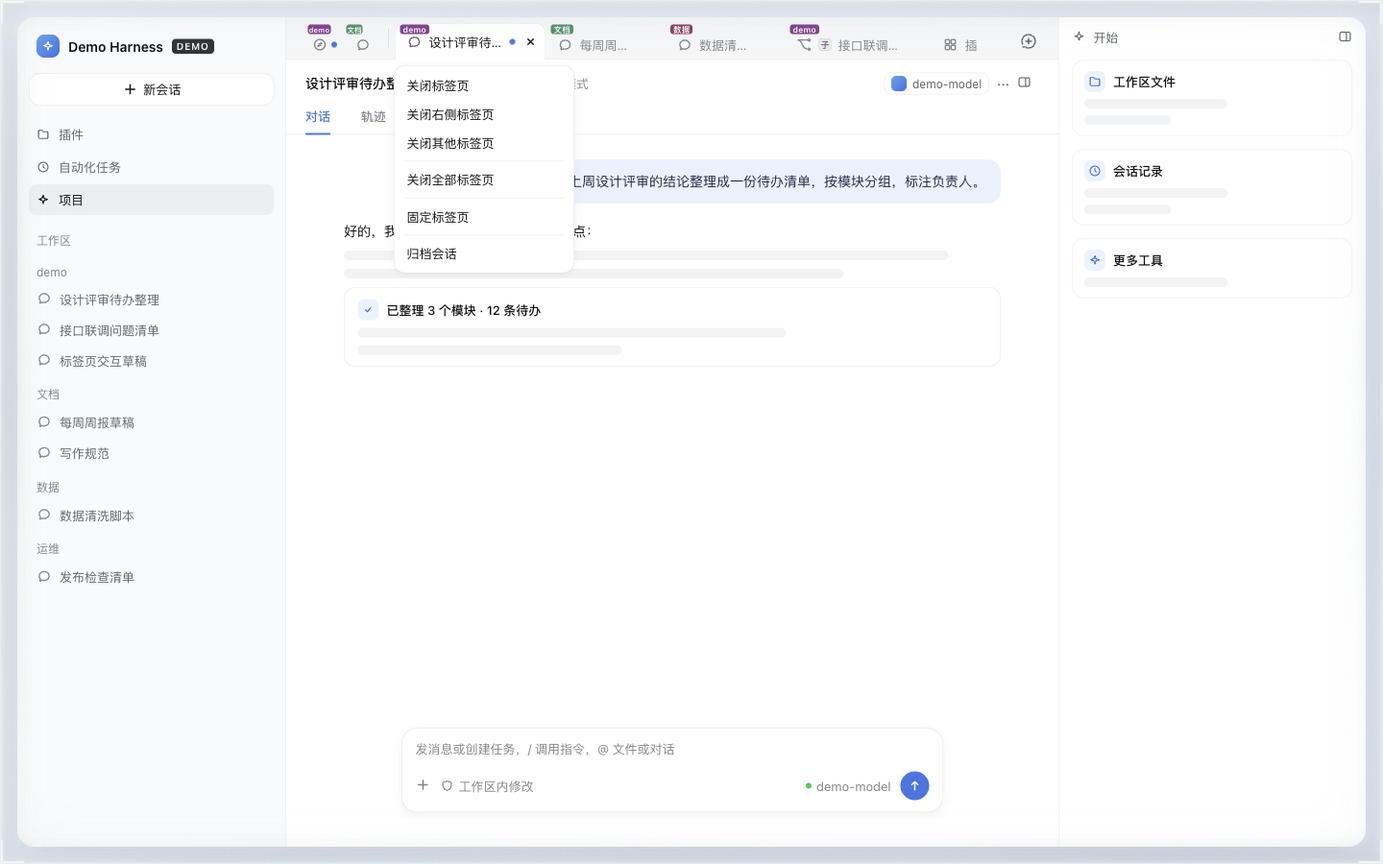
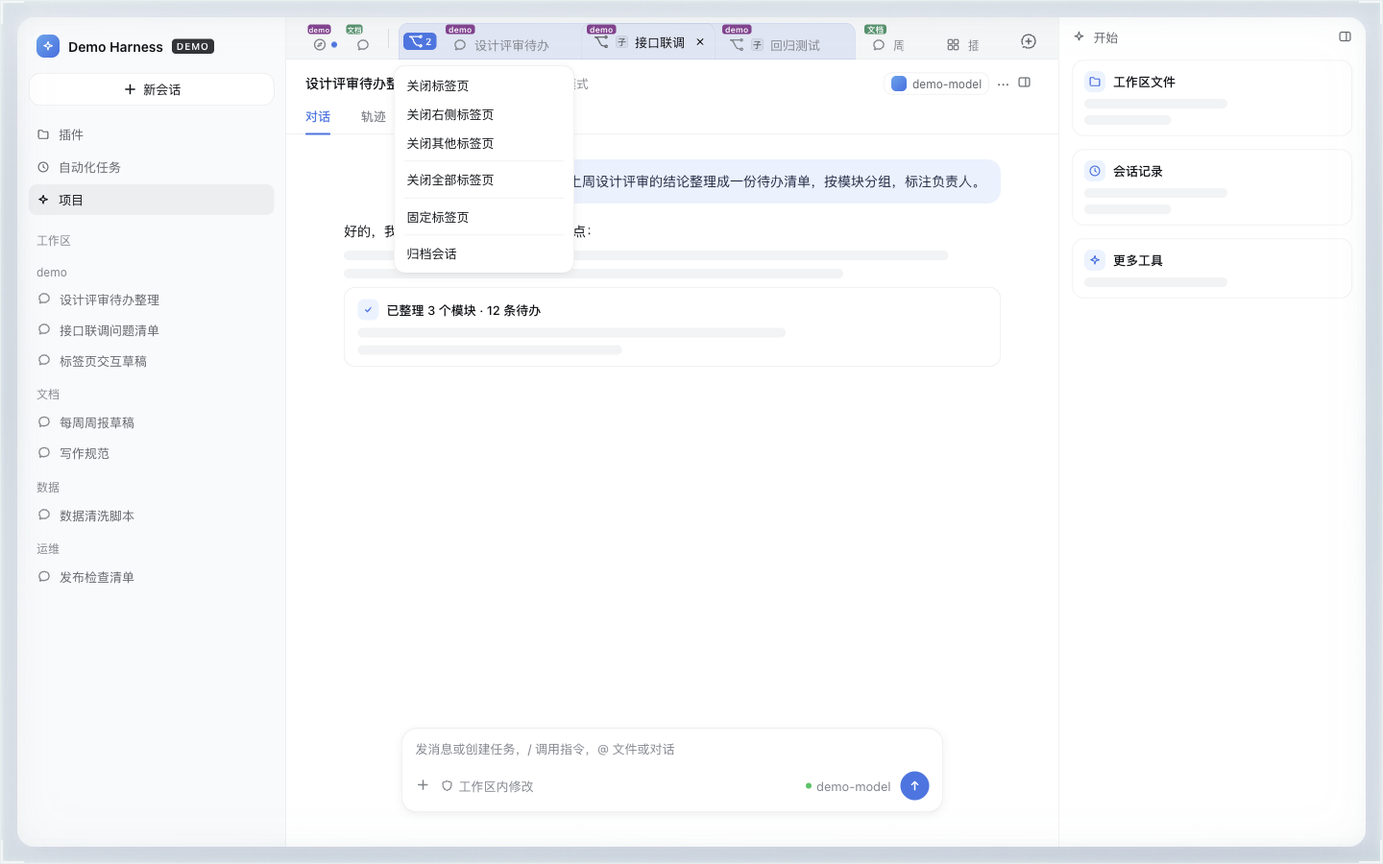
feat: 子智能体标签改为 Chrome 风格标签组（0.5.0）
- 父会话标签与子智能体标签合并到一个浅色圆角组容器，组头显示子智能体数量；父标签永远在组内第一个
- 关闭父标签（含右键「关闭标签页（含 N 个子智能体）」）连带关闭组内所有子智能体标签
- 关掉最后一个子标签后组容器自动收起；组内子标签保留分支图标 +「子」角标
- README 与 mock 截图更新

Changed region(s): [[0.2812, 0.0, 0.6562, 0.0933], [0.6875, 0.0311, 0.7188, 0.0622]]

diff --git a/docs/mock/demo.html b/docs/mock/demo.html
@@ -174,6 +174,16 @@ html[data-windows-titlebar] .dsh-tab-pagebar{top:var(--dsh-windows-titlebar-heig
 .dsh-tab-pagebar__tab[data-dragging=true]{opacity:.55;cursor:grabbing}
 .dsh-tab-pagebar__tab[data-drop=before]{box-shadow:inset 2px 0 0 var(--dsw-alias-state-business-primary)}
 .dsh-tab-pagebar__tab[data-drop=after]{box-shadow:inset -2px 0 0 var(--dsw-alias-state-business-primary)}
+/* Chrome 风格标签组：父标签 + 子智能体标签共用一个浅色圆角底，父标签永远在组内第一个 */
+.dsh-tab-pagebar__group{flex:none;display:flex;align-items:flex-end;gap:2px;align-self:flex-end;height:38px;
+  margin:0 4px;padding:0 5px;border-radius:10px 10px 0 0;
+  background:color-mix(in srgb, var(--dsw-alias-state-business-primary) 12%, transparent);
+  box-shadow:inset 0 0 0 .5px color-mix(in srgb, var(--dsw-alias-state-business-primary) 20%, transparent)}
+.dsh-tab-pagebar__group-chip{flex:none;align-self:center;display:inline-flex;align-items:center;gap:2px;
+  height:18px;padding:0 5px;margin-right:2px;border-radius:5px;color:#fff;font-size:10px;font-weight:600;line-height:18px;
+  background:var(--dsw-alias-state-business-primary)}
+.dsh-tab-pagebar__tab[data-group]{background:transparent;box-shadow:none}
+.dsh-tab-pagebar__tab[data-group]:hover{background:var(--dsw-alias-interactive-bg-hover)}
 /* 子智能体会话：标签内一个小「子」标记（悬停标签看父会话） */
 .dsh-tab-pagebar__sub{flex:none;display:inline-grid;place-items:center;height:13px;min-width:13px;padding:0 2px;
   border-radius:3px;color:var(--dsw-alias-label-secondary);background:var(--dsw-alias-interactive-bg-hover);
@@ -257,7 +267,10 @@ body[data-ds-dark-theme]{color-scheme:dark}
   <main class="mock-main">
     <div class="dsh-tab-pagebar" role="presentation">
       <div class="dsh-tab-pagebar__strip" role="tablist" aria-label="会话标签页">
-        <div class="dsh-tab-pagebar__tab" role="tab" tabindex="-1" aria-selected="false" data-pinned="true" title="新会话 · demo"><span class="dsh-tab-pagebar__badge" style="background-color:hsl(295 46% 38%)" title="工作区：demo">demo</span><span class="dsh-tab-pagebar__icon"><svg viewBox="0 0 16 16" width="16" height="16" fill="none" stroke="currentColor" stroke-width="1.4" stroke-linecap="round" stroke-linejoin="round"><circle cx="8" cy="8" r="5.4"/><path d="M9.9 6.1 8.7 8.7 6.1 9.9l1.2-2.6 2.6-1.2Z"/></svg></span><span class="dsh-tab-pagebar__label">新会话</span><span class="dsh-tab-pagebar__dot" data-signal="running" role="img" aria-label="运行中" title="运行中"></span></div><div class="dsh-tab-pagebar__tab" role="tab" tabindex="-1" aria-selected="false" data-pinned="true" title="写作规范 · 文档"><span class="dsh-tab-pagebar__badge" style="background-color:hsl(151 46% 38%)" title="工作区：文档">文档</span><span class="dsh-tab-pagebar__icon"><svg viewBox="0 0 16 16" width="16" height="16" fill="none" stroke="currentColor" stroke-width="1.4" stroke-linecap="round" stroke-linejoin="round"><path d="M13.2 8c0 2.6-2.3 4.7-5.2 4.7-.6 0-1.2-.1-1.8-.3L3.5 13.2l.7-2c-.9-.8-1.4-2-1.4-3.2C2.8 5.4 5.1 3.3 8 3.3s5.2 2.1 5.2 4.7Z"/></svg></span><span class="dsh-tab-pagebar__label">写作规范</span></div><span class="dsh-tab-pagebar__divider" aria-hidden="true"></span><div class="dsh-tab-pagebar__tab" role="tab" tabindex="0" aria-selected="true" data-pinned="false" title="设计评审待办整理 · demo"><span class="dsh-tab-pagebar__badge" style="background-color:hsl(295 46% 38%)" title="工作区：demo">demo</span><span class="dsh-tab-pagebar__icon"><svg viewBox="0 0 16 16" width="16" height="16" fill="none" stroke="currentColor" stroke-width="1.4" stroke-linecap="round" stroke-linejoin="round"><path d="M13.2 8c0 2.6-2.3 4.7-5.2 4.7-.6 0-1.2-.1-1.8-.3L3.5 13.2l.7-2c-.9-.8-1.4-2-1.4-3.2C2.8 5.4 5.1 3.3 8 3.3s5.2 2.1 5.2 4.7Z"/></svg></span><span class="dsh-tab-pagebar__label">设计评审待办整理</span><span class="dsh-tab-pagebar__dot" data-signal="running" role="img" aria-label="运行中" title="运行中"></span><button type="button" class="dsh-tab-pagebar__close" title="关闭标签页" aria-label="关闭标签页"><svg viewBox="0 0 16 16" width="12" height="12" fill="none" stroke="currentColor" stroke-width="1.5" stroke-linecap="round"><path d="M4.2 4.2l7.6 7.6M11.8 4.2l-7.6 7.6"/></svg></button></div><div class="dsh-tab-pagebar__tab" role="tab" tabindex="-1" aria-selected="false" data-pinned="false" title="每周周报草稿 · 文档"><span class="dsh-tab-pagebar__badge" style="background-color:hsl(151 46% 38%)" title="工作区：文档">文档</span><span class="dsh-tab-pagebar__icon"><svg viewBox="0 0 16 16" width="16" height="16" fill="none" stroke="currentColor" stroke-width="1.4" stroke-linecap="round" stroke-linejoin="round"><path d="M13.2 8c0 2.6-2.3 4.7-5.2 4.7-.6 0-1.2-.1-1.8-.3L3.5 13.2l.7-2c-.9-.8-1.4-2-1.4-3.2C2.8 5.4 5.1 3.3 8 3.3s5.2 2.1 5.2 4.7Z"/></svg></span><span class="dsh-tab-pagebar__label">每周周报草稿</span><button type="button" class="dsh-tab-pagebar__close" title="关闭标签页" aria-label="关闭标签页"><svg viewBox="0 0 16 16" width="12" height="12" fill="none" stroke="currentColor" stroke-width="1.5" stroke-linecap="round"><path d="M4.2 4.2l7.6 7.6M11.8 4.2l-7.6 7.6"/></svg></button></div><div class="dsh-tab-pagebar__tab" role="tab" tabindex="-1" aria-selected="false" data-pinned="false" title="数据清洗脚本 · 数据"><span class="dsh-tab-pagebar__badge" style="background-color:hsl(338 46% 38%)" title="工作区：数据">数据</span><span class="dsh-tab-pagebar__icon"><svg viewBox="0 0 16 16" width="16" height="16" fill="none" stroke="currentColor" stroke-width="1.4" stroke-linecap="round" stroke-linejoin="round"><path d="M13.2 8c0 2.6-2.3 4.7-5.2 4.7-.6 0-1.2-.1-1.8-.3L3.5 13.2l.7-2c-.9-.8-1.4-2-1.4-3.2C2.8 5.4 5.1 3.3 8 3.3s5.2 2.1 5.2 4.7Z"/></svg></span><span class="dsh-tab-pagebar__label">数据清洗脚本</span><button type="button" class="dsh-tab-pagebar__close" title="关闭标签页" aria-label="关闭标签页"><svg viewBox="0 0 16 16" width="12" height="12" fill="none" stroke="currentColor" stroke-width="1.5" stroke-linecap="round"><path d="M4.2 4.2l7.6 7.6M11.8 4.2l-7.6 7.6"/></svg></button></div><div class="dsh-tab-pagebar__tab" role="tab" tabindex="-1" aria-selected="false" data-pinned="false" data-subagent-tab="true" title="接口联调子任务 · 子智能体（demo）"><span class="dsh-tab-pagebar__badge" style="background-color:hsl(295 46% 38%)" title="工作区：demo">demo</span><span class="dsh-tab-pagebar__icon"><svg viewBox="0 0 16 16" width="16" height="16" fill="none"><path fill="currentColor" fill-rule="evenodd" clip-rule="evenodd" d="M13.0762 1.37207C14.0846 1.37228 14.9021 2.19077 14.9023 3.19922C14.9022 4.20772 14.0847 5.02518 13.0762 5.02539C12.2967 5.02539 11.6325 4.53691 11.3701 3.84961H4.35547C4.79397 4.26458 5.15861 4.7644 5.41699 5.33496L7.10645 9.06738C7.88526 10.7875 9.55104 11.9228 11.4189 12.0371C11.7085 11.4109 12.3411 10.9756 13.0762 10.9756C14.0843 10.9759 14.9023 11.7936 14.9023 12.8018C14.9023 13.81 14.0843 14.6277 13.0762 14.6279C12.2534 14.6279 11.5574 14.0832 11.3291 13.335C8.9868 13.1879 6.89981 11.7612 5.92285 9.60352L4.23242 5.87109C3.67503 4.64033 2.44878 3.84961 1.09766 3.84961V2.54883C1.10665 2.54883 1.11601 2.54975 1.125 2.5498L11.3701 2.54883C11.6326 1.86151 12.2969 1.37207 13.0762 1.37207ZM13.0762 12.2764C12.7858 12.2764 12.5508 12.5114 12.5508 12.8018C12.5508 13.0921 12.7858 13.3281 13.0762 13.3281C13.3664 13.3279 13.6025 13.092 13.6025 12.8018C13.6025 12.5115 13.3664 12.2766 13.0762 12.2764ZM13.0762 2.67285C12.7855 2.67285 12.55 2.90861 12.5498 3.19922C12.5499 3.48987 12.7855 3.72559 13.0762 3.72559C13.3667 3.72538 13.6024 3.48975 13.6025 3.19922C13.6023 2.90874 13.3666 2.67306 13.0762 2.67285Z"/></svg></span><span class="dsh-tab-pagebar__sub" aria-hidden="true">子</span><span class="dsh-tab-pagebar__label">接口联调子任务</span><button type="button" class="dsh-tab-pagebar__close" title="关闭标签页" aria-label="关闭标签页"><svg viewBox="0 0 16 16" width="12" height="12" fill="none" stroke="currentColor" stroke-width="1.5" stroke-linecap="round"><path d="M4.2 4.2l7.6 7.6M11.8 4.2l-7.6 7.6"/></svg></button></div><div class="dsh-tab-pagebar__tab" role="tab" tabindex="-1" aria-selected="false" data-pinned="false" data-panel-tab="true" title="插件"><span class="dsh-tab-pagebar__icon"><svg viewBox="0 0 16 16" width="16" height="16" fill="none" stroke="currentColor" stroke-width="1.4"><rect x="2.8" y="2.8" width="4.4" height="4.4" rx="1.2"/><rect x="8.8" y="2.8" width="4.4" height="4.4" rx="1.2"/><rect x="2.8" y="8.8" width="4.4" height="4.4" rx="1.2"/><rect x="8.8" y="8.8" width="4.4" height="4.4" rx="1.2"/></svg></span><span class="dsh-tab-pagebar__label">插件</span><button type="button" class="dsh-tab-pagebar__close" title="关闭标签页" aria-label="关闭标签页"><svg viewBox="0 0 16 16" width="12" height="12" fill="none" stroke="currentColor" stroke-width="1.5" stroke-linecap="round"><path d="M4.2 4.2l7.6 7.6M11.8 4.2l-7.6 7.6"/></svg></button></div>
+        <div class="dsh-tab-pagebar__tab" role="tab" tabindex="-1" aria-selected="false" data-pinned="true" title="新会话 · demo"><span class="dsh-tab-pagebar__badge" style="background-color:hsl(295 46% 38%)" title="工作区：demo">demo</span><span class="dsh-tab-pagebar__icon"><svg viewBox="0 0 16 16" width="16" height="16" fill="none" stroke="currentColor" stroke-width="1.4" stroke-linecap="round" stroke-linejoin="round"><circle cx="8" cy="8" r="5.4"/><path d="M9.9 6.1 8.7 8.7 6.1 9.9l1.2-2.6 2.6-1.2Z"/></svg></span><span class="dsh-tab-pagebar__label">新会话</span><span class="dsh-tab-pagebar__dot" data-signal="running" role="img" aria-label="运行中" title="运行中"></span></div><div class="dsh-tab-pagebar__tab" role="tab" tabindex="-1" aria-selected="false" data-pinned="true" title="写作规范 · 文档"><span class="dsh-tab-pagebar__badge" style="background-color:hsl(151 46% 38%)" title="工作区：文档">文档</span><span class="dsh-tab-pagebar__icon"><svg viewBox="0 0 16 16" width="16" height="16" fill="none" stroke="currentColor" stroke-width="1.4" stroke-linecap="round" stroke-linejoin="round"><path d="M13.2 8c0 2.6-2.3 4.7-5.2 4.7-.6 0-1.2-.1-1.8-.3L3.5 13.2l.7-2c-.9-.8-1.4-2-1.4-3.2C2.8 5.4 5.1 3.3 8 3.3s5.2 2.1 5.2 4.7Z"/></svg></span><span class="dsh-tab-pagebar__label">写作规范</span></div><span class="dsh-tab-pagebar__divider" aria-hidden="true"></span><div class="dsh-tab-pagebar__group" role="group" aria-label="子智能体标签组：2 个子智能体会话">
+        <span class="dsh-tab-pagebar__group-chip" title="2 个子智能体（同一标签组）" aria-hidden="true"><svg viewBox="0 0 16 16" width="16" height="16" fill="none"><path fill="currentColor" fill-rule="evenodd" clip-rule="evenodd" d="M13.0762 1.37207C14.0846 1.37228 14.9021 2.19077 14.9023 3.19922C14.9022 4.20772 14.0847 5.02518 13.0762 5.02539C12.2967 5.02539 11.6325 4.53691 11.3701 3.84961H4.35547C4.79397 4.26458 5.15861 4.7644 5.41699 5.33496L7.10645 9.06738C7.88526 10.7875 9.55104 11.9228 11.4189 12.0371C11.7085 11.4109 12.3411 10.9756 13.0762 10.9756C14.0843 10.9759 14.9023 11.7936 14.9023 12.8018C14.9023 13.81 14.0843 14.6277 13.0762 14.6279C12.2534 14.6279 11.5574 14.0832 11.3291 13.335C8.9868 13.1879 6.89981 11.7612 5.92285 9.60352L4.23242 5.87109C3.67503 4.64033 2.44878 3.84961 1.09766 3.84961V2.54883C1.10665 2.54883 1.11601 2.54975 1.125 2.5498L11.3701 2.54883C11.6326 1.86151 12.2969 1.37207 13.0762 1.37207ZM13.0762 12.2764C12.7858 12.2764 12.5508 12.5114 12.5508 12.8018C12.5508 13.0921 12.7858 13.3281 13.0762 13.3281C13.3664 13.3279 13.6025 13.092 13.6025 12.8018C13.6025 12.5115 13.3664 12.2766 13.0762 12.2764ZM13.0762 2.67285C12.7855 2.67285 12.55 2.90861 12.5498 3.19922C12.5499 3.48987 12.7855 3.72559 13.0762 3.72559C13.3667 3.72538 13.6024 3.48975 13.6025 3.19922C13.6023 2.90874 13.3666 2.67306 13.0762 2.67285Z"/></svg><span>2</span></span>
+        <div class="dsh-tab-pagebar__tab" role="tab" tabindex="-1" aria-selected="false" data-pinned="false" data-group="parent" title="设计评审待办 · demo"><span class="dsh-tab-pagebar__badge" style="background-color:hsl(295 46% 38%)" title="工作区：demo">demo</span><span class="dsh-tab-pagebar__icon"><svg viewBox="0 0 16 16" width="16" height="16" fill="none" stroke="currentColor" stroke-width="1.4" stroke-linecap="round" stroke-linejoin="round"><path d="M13.2 8c0 2.6-2.3 4.7-5.2 4.7-.6 0-1.2-.1-1.8-.3L3.5 13.2l.7-2c-.9-.8-1.4-2-1.4-3.2C2.8 5.4 5.1 3.3 8 3.3s5.2 2.1 5.2 4.7Z"/></svg></span><span class="dsh-tab-pagebar__label">设计评审待办</span><button type="button" class="dsh-tab-pagebar__close" title="关闭标签页" aria-label="关闭标签页"><svg viewBox="0 0 16 16" width="12" height="12" fill="none" stroke="currentColor" stroke-width="1.5" stroke-linecap="round"><path d="M4.2 4.2l7.6 7.6M11.8 4.2l-7.6 7.6"/></svg></button></div><div class="dsh-tab-pagebar__tab" role="tab" tabindex="0" aria-selected="true" data-pinned="false" data-subagent-tab="true" data-group="child" title="接口联调 · 子智能体（demo）"><span class="dsh-tab-pagebar__badge" style="background-color:hsl(295 46% 38%)" title="工作区：demo">demo</span><span class="dsh-tab-pagebar__icon"><svg viewBox="0 0 16 16" width="16" height="16" fill="none"><path fill="currentColor" fill-rule="evenodd" clip-rule="evenodd" d="M13.0762 1.37207C14.0846 1.37228 14.9021 2.19077 14.9023 3.19922C14.9022 4.20772 14.0847 5.02518 13.0762 5.02539C12.2967 5.02539 11.6325 4.53691 11.3701 3.84961H4.35547C4.79397 4.26458 5.15861 4.7644 5.41699 5.33496L7.10645 9.06738C7.88526 10.7875 9.55104 11.9228 11.4189 12.0371C11.7085 11.4109 12.3411 10.9756 13.0762 10.9756C14.0843 10.9759 14.9023 11.7936 14.9023 12.8018C14.9023 13.81 14.0843 14.6277 13.0762 14.6279C12.2534 14.6279 11.5574 14.0832 11.3291 13.335C8.9868 13.1879 6.89981 11.7612 5.92285 9.60352L4.23242 5.87109C3.67503 4.64033 2.44878 3.84961 1.09766 3.84961V2.54883C1.10665 2.54883 1.11601 2.54975 1.125 2.5498L11.3701 2.54883C11.6326 1.86151 12.2969 1.37207 13.0762 1.37207ZM13.0762 12.2764C12.7858 12.2764 12.5508 12.5114 12.5508 12.8018C12.5508 13.0921 12.7858 13.3281 13.0762 13.3281C13.3664 13.3279 13.6025 13.092 13.6025 12.8018C13.6025 12.5115 13.3664 12.2766 13.0762 12.2764ZM13.0762 2.67285C12.7855 2.67285 12.55 2.90861 12.5498 3.19922C12.5499 3.48987 12.7855 3.72559 13.0762 3.72559C13.3667 3.72538 13.6024 3.48975 13.6025 3.19922C13.6023 2.90874 13.3666 2.67306 13.0762 2.67285Z"/></svg></span><span class="dsh-tab-pagebar__sub" aria-hidden="true">子</span><span class="dsh-tab-pagebar__label">接口联调</span><button type="button" class="dsh-tab-pagebar__close" title="关闭标签页" aria-label="关闭标签页"><svg viewBox="0 0 16 16" width="12" height="12" fill="none" stroke="currentColor" stroke-width="1.5" stroke-linecap="round"><path d="M4.2 4.2l7.6 7.6M11.8 4.2l-7.6 7.6"/></svg></button></div><div class="dsh-tab-pagebar__tab" role="tab" tabindex="-1" aria-selected="false" data-pinned="false" data-subagent-tab="true" data-group="child" title="回归测试 · 子智能体（demo）"><span class="dsh-tab-pagebar__badge" style="background-color:hsl(295 46% 38%)" title="工作区：demo">demo</span><span class="dsh-tab-pagebar__icon"><svg viewBox="0 0 16 16" width="16" height="16" fill="none"><path fill="currentColor" fill-rule="evenodd" clip-rule="evenodd" d="M13.0762 1.37207C14.0846 1.37228 14.9021 2.19077 14.9023 3.19922C14.9022 4.20772 14.0847 5.02518 13.0762 5.02539C12.2967 5.02539 11.6325 4.53691 11.3701 3.84961H4.35547C4.79397 4.26458 5.15861 4.7644 5.41699 5.33496L7.10645 9.06738C7.88526 10.7875 9.55104 11.9228 11.4189 12.0371C11.7085 11.4109 12.3411 10.9756 13.0762 10.9756C14.0843 10.9759 14.9023 11.7936 14.9023 12.8018C14.9023 13.81 14.0843 14.6277 13.0762 14.6279C12.2534 14.6279 11.5574 14.0832 11.3291 13.335C8.9868 13.1879 6.89981 11.7612 5.92285 9.60352L4.23242 5.87109C3.67503 4.64033 2.44878 3.84961 1.09766 3.84961V2.54883C1.10665 2.54883 1.11601 2.54975 1.125 2.5498L11.3701 2.54883C11.6326 1.86151 12.2969 1.37207 13.0762 1.37207ZM13.0762 12.2764C12.7858 12.2764 12.5508 12.5114 12.5508 12.8018C12.5508 13.0921 12.7858 13.3281 13.0762 13.3281C13.3664 13.3279 13.6025 13.092 13.6025 12.8018C13.6025 12.5115 13.3664 12.2766 13.0762 12.2764ZM13.0762 2.67285C12.7855 2.67285 12.55 2.90861 12.5498 3.19922C12.5499 3.48987 12.7855 3.72559 13.0762 3.72559C13.3667 3.72538 13.6024 3.48975 13.6025 3.19922C13.6023 2.90874 13.3666 2.67306 13.0762 2.67285Z"/></svg></span><span class="dsh-tab-pagebar__sub" aria-hidden="true">子</span><span class="dsh-tab-pagebar__label">回归测试</span><button type="button" class="dsh-tab-pagebar__close" title="关闭标签页" aria-label="关闭标签页"><svg viewBox="0 0 16 16" width="12" height="12" fill="none" stroke="currentColor" stroke-width="1.5" stroke-linecap="round"><path d="M4.2 4.2l7.6 7.6M11.8 4.2l-7.6 7.6"/></svg></button></div>
+      </div><div class="dsh-tab-pagebar__tab" role="tab" tabindex="-1" aria-selected="false" data-pinned="false" title="周报 · 文档"><span class="dsh-tab-pagebar__badge" style="background-color:hsl(151 46% 38%)" title="工作区：文档">文档</span><span class="dsh-tab-pagebar__icon"><svg viewBox="0 0 16 16" width="16" height="16" fill="none" stroke="currentColor" stroke-width="1.4" stroke-linecap="round" stroke-linejoin="round"><path d="M13.2 8c0 2.6-2.3 4.7-5.2 4.7-.6 0-1.2-.1-1.8-.3L3.5 13.2l.7-2c-.9-.8-1.4-2-1.4-3.2C2.8 5.4 5.1 3.3 8 3.3s5.2 2.1 5.2 4.7Z"/></svg></span><span class="dsh-tab-pagebar__label">周报</span><button type="button" class="dsh-tab-pagebar__close" title="关闭标签页" aria-label="关闭标签页"><svg viewBox="0 0 16 16" width="12" height="12" fill="none" stroke="currentColor" stroke-width="1.5" stroke-linecap="round"><path d="M4.2 4.2l7.6 7.6M11.8 4.2l-7.6 7.6"/></svg></button></div><div class="dsh-tab-pagebar__tab" role="tab" tabindex="-1" aria-selected="false" data-pinned="false" data-panel-tab="true" title="插件"><span class="dsh-tab-pagebar__icon"><svg viewBox="0 0 16 16" width="16" height="16" fill="none" stroke="currentColor" stroke-width="1.4"><rect x="2.8" y="2.8" width="4.4" height="4.4" rx="1.2"/><rect x="8.8" y="2.8" width="4.4" height="4.4" rx="1.2"/><rect x="2.8" y="8.8" width="4.4" height="4.4" rx="1.2"/><rect x="8.8" y="8.8" width="4.4" height="4.4" rx="1.2"/></svg></span><span class="dsh-tab-pagebar__label">插件</span><button type="button" class="dsh-tab-pagebar__close" title="关闭标签页" aria-label="关闭标签页"><svg viewBox="0 0 16 16" width="12" height="12" fill="none" stroke="currentColor" stroke-width="1.5" stroke-linecap="round"><path d="M4.2 4.2l7.6 7.6M11.8 4.2l-7.6 7.6"/></svg></button></div>
       </div>
       <button type="button" class="dsh-tab-pagebar__new" title="新建会话" aria-label="新建会话"><svg viewBox="0 0 16 16" width="16" height="16" fill="none"><path fill="currentColor" d="M8.00003 0.3237C3.76075 0.3237 0.32373 3.76072 0.32373 8C0.32373 9.17603 0.589121 10.2922 1.0632 11.2901L1.35291 11.8989L2.5705 11.3205L2.28079 10.7117C1.89079 9.89074 1.67301 8.97167 1.67301 8C1.67301 4.50546 4.50549 1.67298 8.00003 1.67298C11.4946 1.67298 14.3271 4.50546 14.3271 8C14.3271 11.4945 11.4946 14.327 8.00003 14.327C7.28473 14.327 6.76077 14.277 6.29621 14.1487C5.83857 14.0224 5.40441 13.8109 4.88514 13.4488C4.12569 12.919 3.03778 12.7316 2.141 13.2978L2.12682 13.307L2.11264 13.3171L1.34886 13.854L1.79659 15.188L2.86122 14.4384C3.19068 14.2305 3.68325 14.2542 4.11326 14.5539C4.72789 14.9826 5.30042 15.2724 5.93762 15.4484C6.56803 15.6224 7.22776 15.6763 8.00003 15.6763C12.2393 15.6763 15.6763 12.2393 15.6763 8C15.6763 3.76072 12.2393 0.3237 8.00003 0.3237ZM7.32033 4.82535V7.32536H4.82538V8.67464H7.32033V11.1747H8.6696V8.67464H11.1747V7.32536H8.6696V4.82535H7.32033Z"/></svg></button>
     </div>

diff --git a/client.js b/client.js
@@ -59,7 +59,10 @@ window.__ModuleLoader__.load({
       'tab.workspace': '工作区：{name}',
       'tab.subagent': '子智能体',
       'tab.subagentShort': '子',
+      'tab.subagentGroupTip': '{n} 个子智能体（同一标签组）',
+      'tab.subagentGroupAria': '子智能体标签组：{n} 个子智能体会话',
       'menu.close': '关闭标签页',
+      'menu.closeGroup': '关闭标签页（含 {n} 个子智能体）',
       'menu.closeRight': '关闭右侧标签页',
       'menu.closeOthers': '关闭其他标签页',
       'menu.closeAll': '关闭全部标签页',
@@ -86,7 +89,10 @@ window.__ModuleLoader__.load({
       'tab.workspace': 'Workspace: {name}',
       'tab.subagent': 'Subagent',
       'tab.subagentShort': 'Sub',
+      'tab.subagentGroupTip': '{n} subagents in this tab group',
+      'tab.subagentGroupAria': 'Subagent tab group: {n} subagent conversations',
       'menu.close': 'Close tab',
+      'menu.closeGroup': 'Close tab (and {n} subagents)',
       'menu.closeRight': 'Close tabs to the right',
       'menu.closeOthers': 'Close other tabs',
       'menu.closeAll': 'Close all tabs',
@@ -191,6 +197,16 @@ html[data-windows-titlebar] .dsh-tab-pagebar{top:var(--dsh-windows-titlebar-heig
 .dsh-tab-pagebar__tab[data-dragging=true]{opacity:.55;cursor:grabbing}
 .dsh-tab-pagebar__tab[data-drop=before]{box-shadow:inset 2px 0 0 var(--dsw-alias-state-business-primary)}
 .dsh-tab-pagebar__tab[data-drop=after]{box-shadow:inset -2px 0 0 var(--dsw-alias-state-business-primary)}
+/* Chrome 风格标签组：父标签 + 子智能体标签共用一个浅色圆角底，父标签永远在组内第一个 */
+.dsh-tab-pagebar__group{flex:none;display:flex;align-items:flex-end;gap:2px;align-self:flex-end;height:38px;
+  margin:0 4px;padding:0 5px;border-radius:10px 10px 0 0;
+  background:color-mix(in srgb, var(--dsw-alias-state-business-primary) 12%, transparent);
+  box-shadow:inset 0 0 0 .5px color-mix(in srgb, var(--dsw-alias-state-business-primary) 20%, transparent)}
+.dsh-tab-pagebar__group-chip{flex:none;align-self:center;display:inline-flex;align-items:center;gap:2px;
+  height:18px;padding:0 5px;margin-right:2px;border-radius:5px;color:#fff;font-size:10px;font-weight:600;line-height:18px;
+  background:var(--dsw-alias-state-business-primary)}
+.dsh-tab-pagebar__tab[data-group]{background:transparent;box-shadow:none}
+.dsh-tab-pagebar__tab[data-group]:hover{background:var(--dsw-alias-interactive-bg-hover)}
 /* 子智能体会话：标签内一个小「子」标记（悬停标签看父会话） */
 .dsh-tab-pagebar__sub{flex:none;display:inline-grid;place-items:center;height:13px;min-width:13px;padding:0 2px;
   border-radius:3px;color:var(--dsw-alias-label-secondary);background:var(--dsw-alias-interactive-bg-hover);
@@ -307,13 +323,14 @@ html[data-windows-titlebar] .dsh-tab-pagebar{top:var(--dsh-windows-titlebar-heig
       )
     }
     /** 官方 IconBranchOutline16：子智能体会话用分支图标。 */
-    function IconSubagent() {
+    function IconSubagent(props) {
+      const size = typeof props === 'number' ? props : (props?.size ?? 16)
       return h(
         'svg',
         {
           viewBox: '0 0 16 16',
-          width: 16,
-          height: 16,
+          width: size,
+          height: size,
           fill: 'none',
           'aria-hidden': true,
           focusable: false,
@@ -513,6 +530,37 @@ html[data-windows-titlebar] .dsh-tab-pagebar{top:var(--dsh-windows-titlebar-heig
     }
 
     /**
+     * 参考 Chrome 标签组：父会话标签和它的子智能体标签合成一组，父标签永远在组内第一个。
+     * 返回渲染项：{ kind: 'tab', tab } 或 { kind: 'group', parent, children }。
+     */
+    function groupSessionTabs(list, rows) {
+      const childrenByParent = new Map()
+      for (const tab of list) {
+        if (tab.pinned) continue
+        const row = rows[tab.id]
+        if (row === undefined || row.origin !== 'subagent' || row.parentId === undefined) continue
+        const parentRow = rows[row.parentId]
+        if (parentRow === undefined || parentRow.origin === 'subagent') continue
+        if (!list.some((candidate) => candidate.id === row.parentId && !candidate.pinned)) continue
+        const children = childrenByParent.get(row.parentId) ?? []
+        children.push(tab)
+        childrenByParent.set(row.parentId, children)
+      }
+      const groupedChildIds = new Set([...childrenByParent.values()].flat().map((tab) => tab.id))
+      const items = []
+      for (const tab of list) {
+        const children = childrenByParent.get(tab.id)
+        if (children !== undefined) {
+          items.push({ kind: 'group', parent: tab, children })
+          continue
+        }
+        if (groupedChildIds.has(tab.id)) continue
+        items.push({ kind: 'tab', tab })
+      }
+      return items
+    }
+
+    /**
      * 显示顺序：固定标签在最左（按固定顺序），其余按打开顺序。
      * 切换标签不改变顺序；激活标签只是变宽、和下面的会话页连成一张纸。
      */
@@ -527,7 +575,7 @@ html[data-windows-titlebar] .dsh-tab-pagebar{top:var(--dsh-windows-titlebar-heig
 
     // ── 单个标签页 ──────────────────────────────────────────────────────────
     function TabItem(props) {
-      const { id, title, active, signal, blank, pinned, panel, subagent, parentTitle, badge, drop, dragging, t, onSelect, onClose, onMenu, onArrow, onDragStart } = props
+      const { id, title, active, signal, blank, pinned, panel, subagent, parentTitle, group, badge, drop, dragging, t, onSelect, onClose, onMenu, onArrow, onDragStart } = props
       const statusLabel =
         signal === 'running' ? t('tab.running') : signal === 'pending' ? t('tab.pending') : signal === 'unread' ? t('tab.unread') : undefined
       const titleParts = [title]
@@ -545,6 +593,7 @@ html[data-windows-titlebar] .dsh-tab-pagebar{top:var(--dsh-windows-titlebar-heig
           'data-pinned': pinned ? 'true' : 'false',
           'data-panel-tab': panel ? 'true' : undefined,
           'data-subagent-tab': subagent ? 'true' : undefined,
+          'data-group': group === undefined ? undefined : group,
           'data-dragging': dragging ? 'true' : 'false',
           'data-drop': drop === null || drop === undefined ? undefined : drop,
           title: tooltip,
@@ -789,10 +838,12 @@ html[data-windows-titlebar] .dsh-tab-pagebar{top:var(--dsh-windows-titlebar-heig
           if (stale.length > 0) actions.store.removeMany(stale)
         }, [catalog, archived])
 
-        const tabs = displayTabs(snapshot).filter((tab) => {
+        const flatTabs = displayTabs(snapshot).filter((tab) => {
           if (isPanelTab(tab.id)) return panels.ready ? panelById.has(panelIdOf(tab.id)) : true
           return rows[tab.id] !== undefined && !archived.has(tab.id)
         })
+        const tabItems = groupSessionTabs(flatTabs, rows)
+        const tabs = tabItems.flatMap((item) => (item.kind === 'group' ? [item.parent, ...item.children] : [item.tab]))
         const pinnedCount = tabs.filter((tab) => tab.pinned).length
 
         // 打开全局面板时给它一个独立标签（已有则复用）；面板注销后摘掉对应标签。
@@ -1094,8 +1145,18 @@ html[data-windows-titlebar] .dsh-tab-pagebar{top:var(--dsh-windows-titlebar-heig
           } else if (menuTab !== undefined) {
             const rightCount = tabs.length - menuTabIndex - 1
             const otherCount = tabs.filter((tab) => tab.id !== menuTab.id && !tab.pinned).length
+            const groupChildCount = isPanelTab(menuTab.id)
+              ? 0
+              : tabs.filter((tab) => {
+                  const row = rows[tab.id]
+                  return row !== undefined && row.origin === 'subagent' && row.parentId === menuTab.id
+                }).length
             menuItems = [
-              { key: 'close', label: t('menu.close'), run: runMenu(() => actions.closeOne(menuTab.id)) },
+              {
+                key: 'close',
+                label: groupChildCount > 0 ? t('menu.closeGroup', { n: groupChildCount }) : t('menu.close'),
+                run: runMenu(() => actions.closeOne(menuTab.id)),
+              },
               {
                 key: 'close-right',
                 label: t('menu.closeRight'),
@@ -1166,46 +1227,78 @@ html[data-windows-titlebar] .dsh-tab-pagebar{top:var(--dsh-windows-titlebar-heig
                 role: 'tablist',
                 'aria-label': t('tab.list'),
               },
-              tabs.flatMap((tab, index) => {
-                const panelTab = isPanelTab(tab.id)
-                const panel = panelTab ? panelById.get(panelIdOf(tab.id)) : undefined
-                const row = panelTab ? undefined : rows[tab.id]
-                const knownBadge = panelTab ? undefined : workspaceBadges.get(tab.id)
-                const cwdLabel = panelTab ? '' : basenameOf(row?.cwd)
-                const badge = knownBadge ?? (cwdLabel.length === 0 ? null : { label: cwdLabel, hue: workspaceHue(cwdLabel) })
-                const subagent = !panelTab && row?.origin === 'subagent'
-                const parentRow = subagent && row?.parentId !== undefined ? rows[row.parentId] : undefined
-                const parentTitle = parentRow === undefined ? undefined : parentRow.displayTitle || parentRow.title
-                const node = h(TabItem, {
-                  key: tab.id,
-                  id: tab.id,
-                  active: tab.id === visualActiveId,
-                  blank: panelTab ? false : row?.blank === true,
-                  pinned: tab.pinned,
-                  panel: panelTab,
-                  subagent,
-                  parentTitle,
-                  badge,
-                  dragging: dragState !== null && dragState.id === tab.id,
-                  drop: dragState !== null && dragState.referenceId === tab.id ? dragState.place : null,
-                  title: panelTab
-                    ? panel?.label ?? panelIdOf(tab.id)
-                    : row?.blank === true
-                      ? t('tab.newSession')
-                      : row?.displayTitle || row?.title || t('tab.untitled'),
-                  signal: panelTab ? undefined : sessionStatusSignal(statuses?.get(tab.id)),
-                  t,
-                  onSelect: onTabSelect,
-                  onClose: actions.closeOne,
-                  onMenu: openMenu,
-                  onArrow: focusRelative,
-                  onDragStart: (event) => beginDrag(event, tab.id, tab.pinned),
+              (() => {
+                const orderIndex = new Map(tabs.map((tab, index) => [tab.id, index]))
+                const renderTab = (tab, group) => {
+                  const panelTab = isPanelTab(tab.id)
+                  const panel = panelTab ? panelById.get(panelIdOf(tab.id)) : undefined
+                  const row = panelTab ? undefined : rows[tab.id]
+                  const knownBadge = panelTab ? undefined : workspaceBadges.get(tab.id)
+                  const cwdLabel = panelTab ? '' : basenameOf(row?.cwd)
+                  const badge = knownBadge ?? (cwdLabel.length === 0 ? null : { label: cwdLabel, hue: workspaceHue(cwdLabel) })
+                  const subagent = !panelTab && row?.origin === 'subagent'
+                  const parentRow = subagent && row?.parentId !== undefined ? rows[row.parentId] : undefined
+                  const parentTitle = parentRow === undefined ? undefined : parentRow.displayTitle || parentRow.title
+                  const index = orderIndex.get(tab.id) ?? 0
+                  const node = h(TabItem, {
+                    key: tab.id,
+                    id: tab.id,
+                    active: tab.id === visualActiveId,
+                    blank: panelTab ? false : row?.blank === true,
+                    pinned: tab.pinned,
+                    panel: panelTab,
+                    subagent,
+                    parentTitle,
+                    group,
+                    badge,
+                    dragging: dragState !== null && dragState.id === tab.id,
+                    drop: dragState !== null && dragState.referenceId === tab.id ? dragState.place : null,
+                    title: panelTab
+                      ? panel?.label ?? panelIdOf(tab.id)
+                      : row?.blank === true
+                        ? t('tab.newSession')
+                        : row?.displayTitle || row?.title || t('tab.untitled'),
+                    signal: panelTab ? undefined : sessionStatusSignal(statuses?.get(tab.id)),
+                    t,
+                    onSelect: onTabSelect,
+                    onClose: actions.closeOne,
+                    onMenu: openMenu,
+                    onArrow: focusRelative,
+                    onDragStart: (event) => beginDrag(event, tab.id, tab.pinned),
+                  })
+                  const isLastPinned = tab.pinned && index === pinnedCount - 1 && tabs.length > pinnedCount
+                  return isLastPinned
+                    ? [node, h('span', { key: 'divider', className: 'dsh-tab-pagebar__divider', 'aria-hidden': true })]
+                    : [node]
+                }
+                return tabItems.flatMap((item) => {
+                  if (item.kind === 'tab') return renderTab(item.tab)
+                  const count = item.children.length
+                  return h(
+                    'div',
+                    {
+                      key: `group:${item.parent.id}`,
+                      className: 'dsh-tab-pagebar__group',
+                      role: 'group',
+                      'data-tab-group': item.parent.id,
+                      'aria-label': t('tab.subagentGroupAria', { n: count }),
+                    },
+                    h(
+                      'span',
+                      {
+                        key: 'chip',
+                        className: 'dsh-tab-pagebar__group-chip',
+                        title: t('tab.subagentGroupTip', { n: count }),
+                        'aria-hidden': true,
+                      },
+                      h(IconSubagent, { key: 'icon', size: 11 }),
+                      h('span', { key: 'count' }, String(count)),
+                    ),
+                    ...renderTab(item.parent, 'parent'),
+                    ...item.children.flatMap((child) => renderTab(child, 'child')),
+                  )
                 })
-                const isLastPinned = tab.pinned && index === pinnedCount - 1 && tabs.length > pinnedCount
-                return isLastPinned
-                  ? [node, h('span', { key: 'divider', className: 'dsh-tab-pagebar__divider', 'aria-hidden': true })]
-                  : [node]
-              }),
+              })(),
             ),
             h(
               'button',
@@ -1367,8 +1460,25 @@ html[data-windows-titlebar] .dsh-tab-pagebar{top:var(--dsh-windows-titlebar-heig
           }
         }
 
+        /** 关父标签会连带关掉它的子智能体标签（Chrome 标签组语义）。 */
+        const expandClosedIds = (idsToClose) => {
+          const catalog = sessions.list.getSnapshot()
+          const allIds = store.getSnapshot().ids
+          const result = new Set(idsToClose)
+          for (const id of idsToClose) {
+            if (isPanelTab(id)) continue
+            for (const candidate of allIds) {
+              const row = catalog?.byId?.[candidate]
+              if (row === undefined || row.origin !== 'subagent' || row.parentId !== id) continue
+              result.add(candidate)
+            }
+          }
+          return [...result]
+        }
+
         /** 关掉一批标签；正在显示的标签在被关列表里时按 nextId / 首个剩余标签 / 新建会话的次序落位。 */
         const closeIds = (idsToClose, nextId) => {
+          idsToClose = expandClosedIds(idsToClose)
           if (idsToClose.length === 0) return
           const catalog = sessions.list.getSnapshot()
           const current = currentSessionIdOf(catalog)

diff --git a/README.md b/README.md
@@ -18,7 +18,7 @@ npm 包名：**`dsh-tab`**。
 - **一个会话一个标签页**：打开、恢复、新建会话时自动入签；点击标签走官方 `uiWorkspace.openSession`，不刷新页面。当前会话的标签和下面的会话页连成一张纸，形成「书页」效果。
 - **工作区角标**：每个标签左上角显示所属工作区（颜色由工作区 ID 哈希得到，文字是工作区名，悬停看全名）；固定标签只显示图标时用更小字号。
 - **新建会话**：`+` 在最后一个标签右侧；标签多到放不下时标签条自己横向滚动，`+` 始终可见。
-- **子智能体标签**：子智能体会话的标签用分支图标 +「子」角标标出来，悬停标签会显示「子智能体（父会话：…）」；从父会话的「N 个子智能体」列表打开时会独立成标签，不会和父会话混在一起。
+- **子智能体标签组（Chrome 风格）**：父会话标签和它的子智能体会话标签合成一个标签组——共用浅色圆角组容器、组头显示子智能体数量，父标签永远在组内第一个；子标签用分支图标 +「子」角标标出。关闭父标签会连同它的子智能体标签一起关闭（右键菜单里会显示「关闭标签页（含 N 个子智能体）」）。
 - **侧栏页面也是标签页**：点侧栏的「插件」「自动化任务」等全局面板时，会新增（或切换到已存在的）对应标签，不再顶掉当前会话标签；点回会话标签就收起面板、回到会话。面板标签同样可以关闭、固定、拖拽排序和持久化，面板卸载后标签自动移除。
 - **固定 / 取消固定**：固定的标签排在最左、只显示图标（40px 宽）并带状态点，和普通标签之间有分隔线。
 - **拖拽排序**：按住标签左右拖动即可换位，落点画一条强调色竖线；固定标签和普通标签各自在自己的分组内排序，顺序存 `localStorage`，刷新保持。`Esc` 或窗口失焦取消本次拖拽。
@@ -81,6 +81,7 @@ git clone https://github.com/imchangchang/dsh-tab.git
 | 新建会话 | 最后一个标签右侧的 `+` |
 | 打开侧栏页面 | 点侧栏的「插件」「自动化任务」等，自动新增/切换对应标签页 |
 | 打开子智能体 | 父会话头部点「N 个子智能体」→ 选择子会话，新开一个带「子」标记的标签页 |
+| 关闭标签组 | 关父标签（或它菜单里的关闭项）会连带关闭组内所有子智能体标签 |
 | 调整顺序 | 按住标签左右拖拽（同组内） |
 | 固定 / 取消固定 | 右键菜单 → 固定标签页 / 取消固定标签页 |
 | 关闭一批 | 右键菜单 → 关闭右侧 / 关闭其他 / 关闭全部 |

diff --git a/CHANGELOG.md b/CHANGELOG.md
@@ -1,5 +1,12 @@
 # Changelog
 
+## 0.5.0 — 2026-11-11
+
+- 子智能体标签改成 Chrome 风格的标签组：父标签和它的子智能体标签共用一个浅色圆角组容器，组头显示子智能体数量；父标签永远在组内第一个。
+- 关闭父标签（含右键菜单「关闭标签页（含 N 个子智能体）」）会连带关闭组内所有子智能体标签；关掉最后一个子标签后组容器自动收起，父标签恢复成普通标签。
+- mock 演示页与 README 截图同步更新。
+
+
 ## 0.4.0 — 2026-11-11
 
 - 子智能体会话的标签可以区分了：分支图标 + 标签内「子」角标，悬停显示「子智能体（父会话：…）」；从父会话头部的「N 个子智能体」列表打开子会话时会独立成一个标签。
